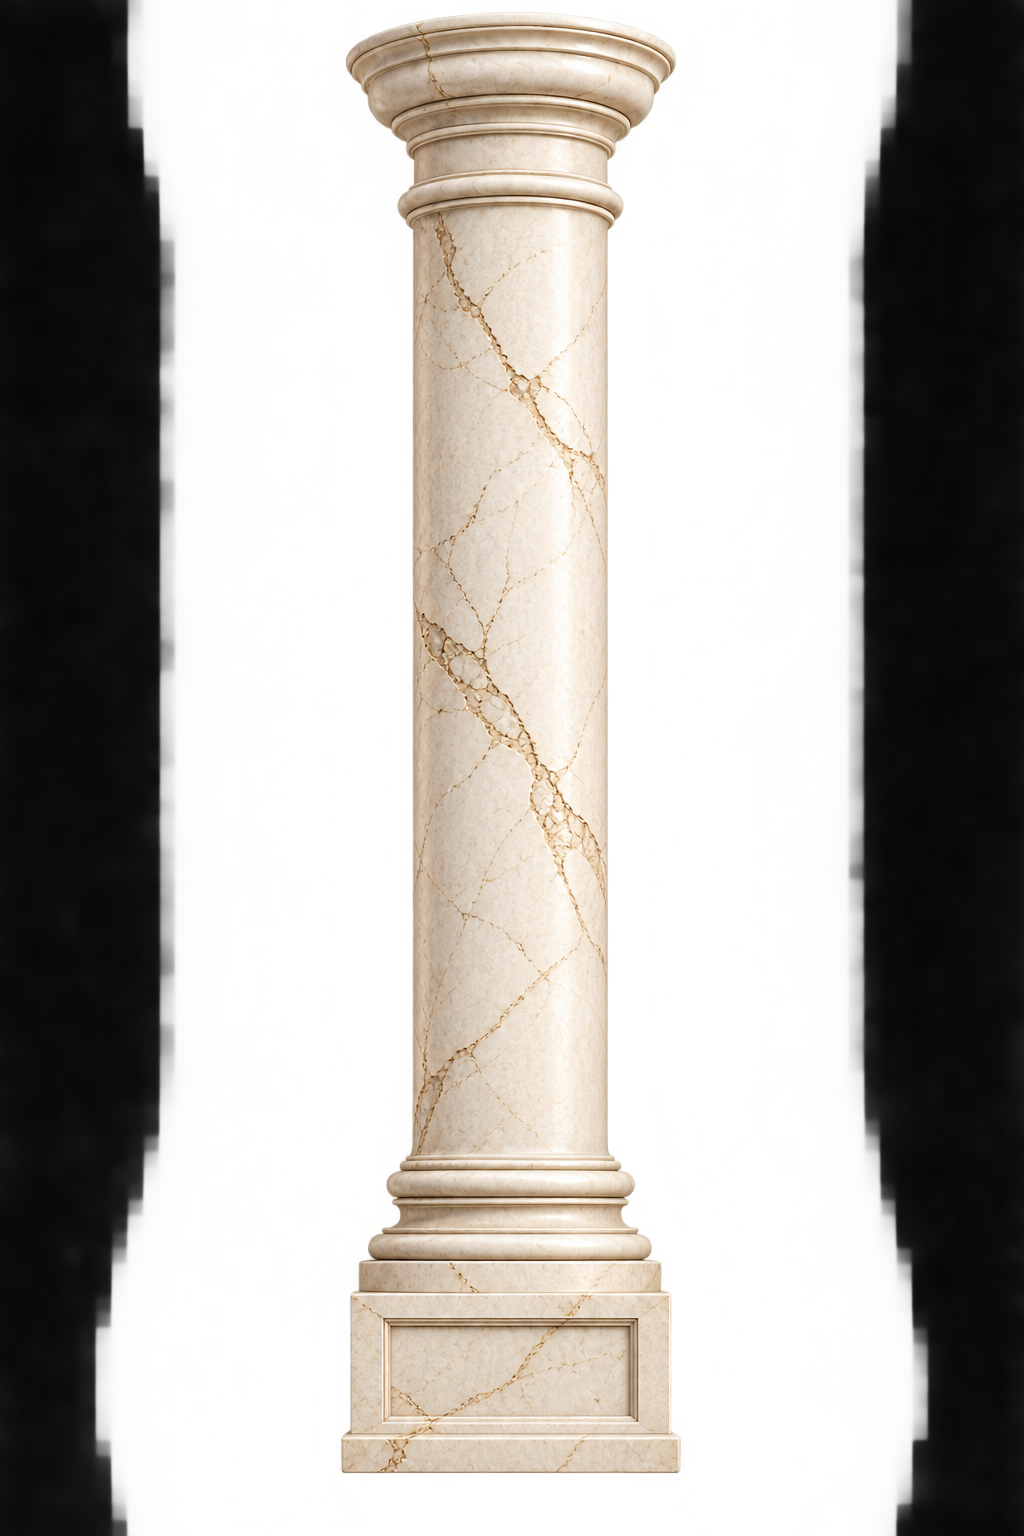
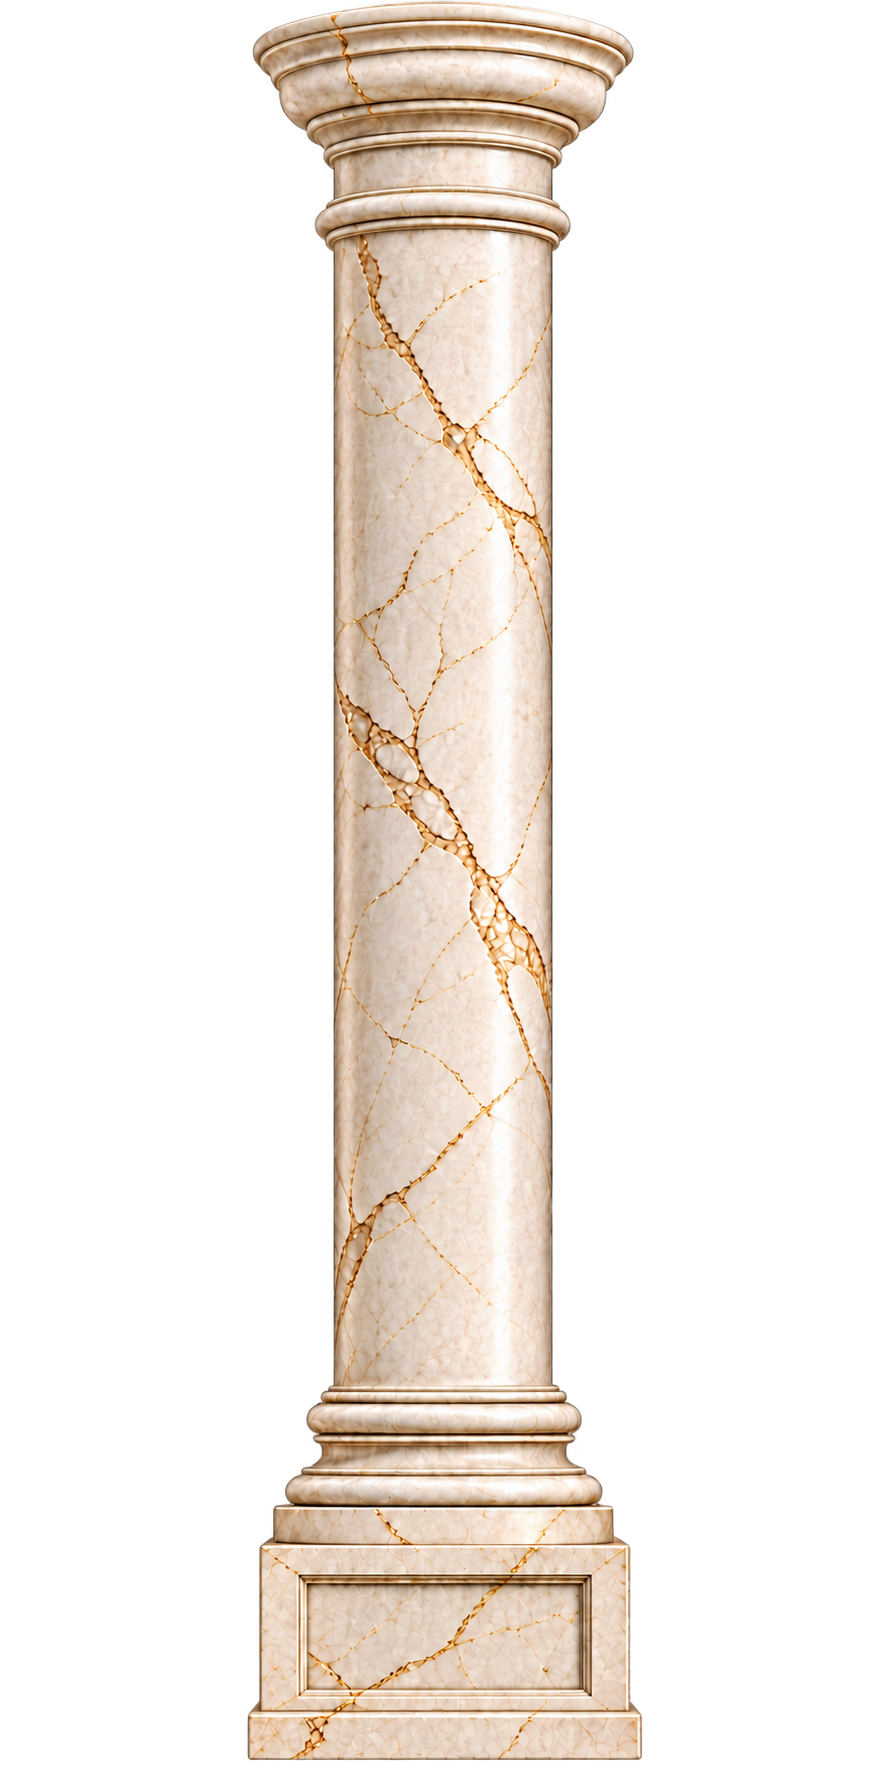
feat: style neoclassical architectural frame

diff --git a/src/components/architectural-frame.tsx b/src/components/architectural-frame.tsx
@@ -1,23 +1,33 @@
+import Image from "next/image";
+
 type ArchitecturalFrameProps = {
   children: React.ReactNode;
 };
 
-export function ArchitecturalFrame({
-  children,
-}: ArchitecturalFrameProps) {
+export function ArchitecturalFrame({ children }: ArchitecturalFrameProps) {
   return (
-    <div className="relative min-h-screen">
-      <div
+    <div className="relative min-h-screen overflow-x-hidden">
+      <Image
+        src="/images/architecture/marble-column.png"
+        alt=""
+        width={950}
+        height={1655}
+        priority
         aria-hidden="true"
-        className="pointer-events-none fixed inset-y-0 left-0 z-40 hidden w-20 border-r border-limestone bg-parchment lg:block xl:w-28"
+        className="pointer-events-none fixed left-0 top-1/2 z-40 hidden h-[107vh] w-auto max-w-none -translate-x-[40%] -translate-y-1/2 select-none lg:block"
       />
 
-      <div
+      <Image
+        src="/images/architecture/marble-column.png"
+        alt=""
+        width={950}
+        height={1655}
+        priority
         aria-hidden="true"
-        className="pointer-events-none fixed inset-y-0 right-0 z-40 hidden w-20 border-l border-limestone bg-parchment lg:block xl:w-28"
+        className="pointer-events-none fixed right-0 top-1/2 z-40 hidden h-[107vh] w-auto max-w-none translate-x-[40%] -translate-y-1/2 select-none lg:block"
       />
 
-      <div className="lg:px-20 xl:px-28">{children}</div>
+      <div className="lg:px-24 xl:px-32">{children}</div>
     </div>
   );
 }
